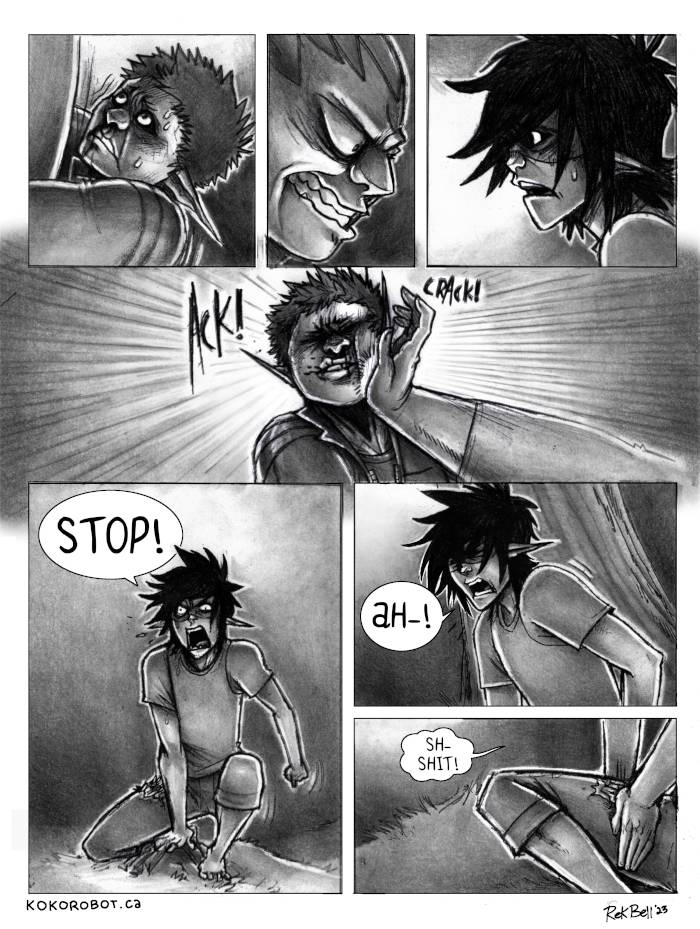
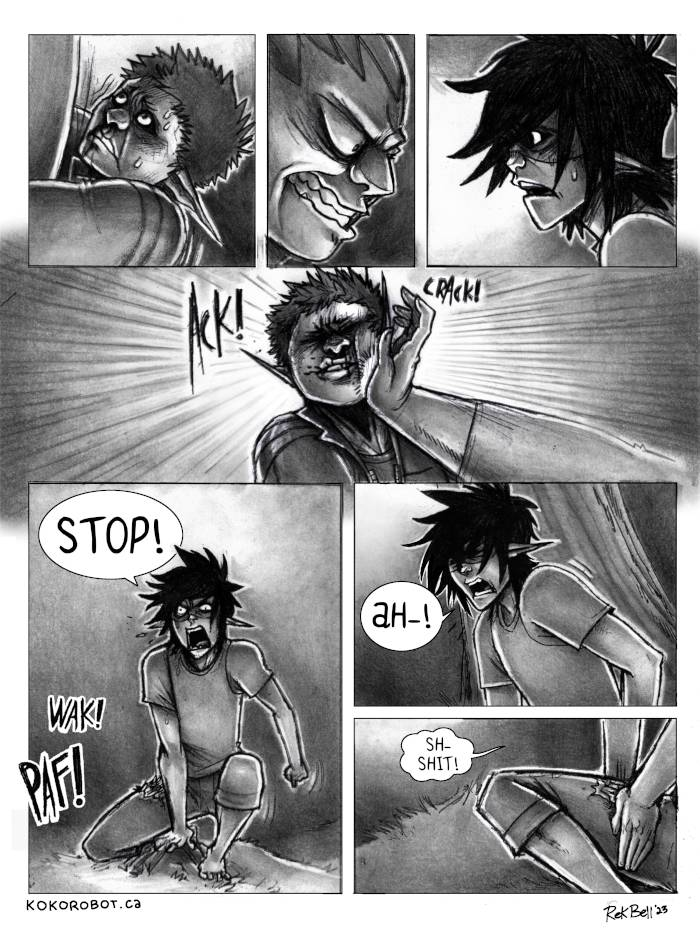
*

Changed region(s): [[0.03, 0.7492, 0.15, 0.9053]]

diff --git a/site/index.html b/site/index.html
@@ -17,5 +17,5 @@
 
 <ul class='col2 capital'><li><a href='2013dec31.html'>2013dec31</a></li><li><a href='2014dec31.html'>2014dec31</a></li><li><a href='2020dec31.html'>2020dec31</a></li><li><a href='2021dec31.html'>2021dec31</a></li><li><a href='2022dec31.html'>2022dec31</a></li><li><a href='2023dec31.html'>2023dec31</a></li><li><a href='about.html'>about</a></li><li><a href='adeka.html'>adeka</a></li><li><a href='adelie.html'>adelie</a></li><li><a href='anuk.html'>anuk</a></li><li><a href='apple_carving.html'>apple carving</a></li><li><a href='ars_goetia.html'>ars goetia</a></li><li><a href='asl.html'>asl</a></li><li><a href='bike.html'>bike</a></li><li><a href='biosonic.html'>biosonic</a></li><li><a href='birds.html'>birds</a></li><li><a href='blog.html'>blog</a></li><li><a href='bookmarks.html'>bookmarks</a></li><li><a href='books.html'>books</a></li><li><a href='books_for_children.html'>books for children</a></li><li><a href='bulle.html'>bulle</a></li><li><a href='busy_doing_nothing.html'>busy doing nothing</a></li><li><a href='busy_water.html'>busy water</a></li><li><a href='caden.html'>caden</a></li><li><a href='caleb.html'>caleb</a></li><li><a href='casey.html'>casey</a></li><li><a href='cat_clock.html'>cat clock</a></li><li><a href='catpot.html'>catpot</a></li><li><a href='cee.html'>cee</a></li><li><a href='chase.html'>chase</a></li><li><a href='circa.html'>circa</a></li><li><a href='collection.html'>collection</a></li><li><a href='commission.html'>commission</a></li><li><a href='conversion.html'>conversion</a></li><li><a href='couple.html'>couple</a></li><li><a href='dae.html'>dae</a></li><li><a href='depressive_realism.html'>depressive realism</a></li><li><a href='devine.html'>devine</a></li><li><a href='disengaging.html'>disengaging</a></li><li><a href='donsol.html'>donsol</a></li><li><a href='drownspire.html'>drownspire</a></li><li><a href='fan_art.html'>fan art</a></li><li><a href='fasciation.html'>fasciation</a></li><li><a href='favorites.html'>favorites</a></li><li><a href='fenix.html'>fenix</a></li><li><a href='ferris.html'>ferris</a></li><li><a href='films_and_series.html'>films and series</a></li><li><a href='finn.html'>finn</a></li><li><a href='five_hole_pamphlet_stitch.html'>five hole pamphlet stitch</a></li><li><a href='fsf_talk.html'>fsf talk</a></li><li><a href='fungi.html'>fungi</a></li><li><a href='games.html'>games</a></li><li><a href='ginger_roots.html'>ginger roots</a></li><li><a href='go_north.html'>go north</a></li><li><a href='grimgrains.html'>grimgrains</a></li><li><a href='hakazi.html'>hakazi</a></li><li><a href='hakum.html'>hakum</a></li><li><a href='hakum_archive.html'>hakum archive</a></li><li><a href='hand_talk.html'>hand talk</a></li><li><a href='hitobito.html'>hitobito</a></li><li><a href='home.html'>home</a></li><li><a href='hundredrabbits.html'>hundredrabbits</a></li><li><a href='ikkard.html'>ikkard</a></li><li><a href='illustration.html'>illustration</a></li><li><a href='image_optimization.html'>image optimization</a></li><li><a href='incredible_death.html'>incredible death</a></li><li><a href='index.html'>index</a></li><li><a href='jak.html'>jak</a></li><li><a href='japan.html'>japan</a></li><li><a href='kaddali.html'>kaddali</a></li><li><a href='kanji_study.html'>kanji study</a></li><li><a href='kayak.html'>kayak</a></li><li><a href='kidd_kosmo.html'>kidd kosmo</a></li><li><a href='kim.html'>kim</a></li><li><a href='knots.html'>knots</a></li><li><a href='leaner_web.html'>leaner web</a></li><li><a href='links.html'>links</a></li><li><a href='liskar.html'>liskar</a></li><li><a href='logos.html'>logos</a></li><li><a href='luna_leap.html'>luna leap</a></li><li><a href='making_a_font.html'>making a font</a></li><li><a href='malisse.html'>malisse</a></li><li><a href='markl.html'>markl</a></li><li><a href='meds.html'>meds</a></li><li><a href='medussas_four.html'>medussas four</a></li><li><a href='merure.html'>merure</a></li><li><a href='merveilles.html'>merveilles</a></li><li><a href='meta.header.html'>meta.header</a></li><li><a href='meta.html'>meta</a></li><li><a href='mika.html'>mika</a></li><li><a href='mindbird.html'>mindbird</a></li><li><a href='misc.html'>misc</a></li><li><a href='musi.html'>musi</a></li><li><a href='nemerald.html'>nemerald</a></li><li><a href='new_physical.html'>new physical</a></li><li><a href='night_terror.html'>night terror</a></li><li><a href='niju.html'>niju</a></li><li><a href='notes.html'>notes</a></li><li><a href='obi.html'>obi</a></li><li><a href='offline_internet.html'>offline internet</a></li><li><a href='old_art.html'>old art</a></li><li><a href='oquonie.html'>oquonie</a></li><li><a href='orion.html'>orion</a></li><li><a href='pandoc.html'>pandoc</a></li><li><a href='pandoc_install.html'>pandoc install</a></li><li><a href='paradise.html'>paradise</a></li><li><a href='pcbc.html'>pcbc</a></li><li><a href='physical.html'>physical</a></li><li><a href='pino.html'>pino</a></li><li><a href='politics.html'>politics</a></li><li><a href='polycat.html'>polycat</a></li><li><a href='press.html'>press</a></li><li><a href='projects.html'>projects</a></li><li><a href='publications.html'>publications</a></li><li><a href='quotes.html'>quotes</a></li><li><a href='radio.html'>radio</a></li><li><a href='rek.html'>rek</a></li><li><a href='resume.html'>resume</a></li><li><a href='reunited.html'>reunited</a></li><li><a href='rope_mats.html'>rope mats</a></li><li><a href='seir.html'>seir</a></li><li><a href='self_defense.html'>self defense</a></li><li><a href='sewing.html'>sewing</a></li><li><a href='shiba_killy.html'>shiba killy</a></li><li><a href='shock.html'>shock</a></li><li><a href='sketchbook.html'>sketchbook</a></li><li><a href='social_psychology.html'>social psychology</a></li><li><a href='solomons_devils.html'>solomons devils</a></li><li><a href='space_panda.html'>space panda</a></li><li><a href='spellbook.html'>spellbook</a></li><li><a href='spines_and_pincers.html'>spines and pincers</a></li><li><a href='sprite.html'>sprite</a></li><li><a href='store.html'>store</a></li><li><a href='stories.html'>stories</a></li><li><a href='straw_surfer.html'>straw surfer</a></li><li><a href='sy.html'>sy</a></li><li><a href='sy_and_kim.html'>sy and kim</a></li><li><a href='tattoos.html'>tattoos</a></li><li><a href='tdc.html'>tdc</a></li><li><a href='the_black_box_theory.html'>the black box theory</a></li><li><a href='the_event.html'>the event</a></li><li><a href='the_tot.html'>the tot</a></li><li><a href='thousand_rooms.html'>thousand rooms</a></li><li><a href='token.html'>token</a></li><li><a href='tools.html'>tools</a></li><li><a href='tracking.html'>tracking</a></li><li><a href='uno.html'>uno</a></li><li><a href='update_log.html'>update log</a></li><li><a href='using_a_scanner_under_linux.html'>using a scanner under linux</a></li><li><a href='uxn.html'>uxn</a></li><li><a href='uxn_asl.html'>uxn asl</a></li><li><a href='vancouver_island_mushrooms.html'>vancouver island mushrooms</a></li><li><a href='vendredi_13.html'>vendredi 13</a></li><li><a href='viktor.html'>viktor</a></li><li><a href='vincent.html'>vincent</a></li><li><a href='warning_art.html'>warning art</a></li><li><a href='whodidwhat.html'>whodidwhat</a></li><li><a href='wiktopher.html'>wiktopher</a></li><li><a href='wunderland_rabbits.html'>wunderland rabbits</a></li><li><a href='yearly_review.html'>yearly review</a></li><li><a href='yegon.html'>yegon</a></li><li><a href='yenifer.html'>yenifer</a></li><li><a href='yufo.html'>yufo</a></li></ul>
 
-</main><footer><hr /><span style='float:right'>Edited on Thu Dec 28 10:10:18 2023
+</main><footer><hr /><span style='float:right'>Edited on Thu Dec 28 18:54:18 2023
  <a href='https://github.com/rekkabell/kokorobot/edit/main/src/inc/index.htm'>[edit]</a><br/></span><b>Rek Bell</b> © 2008-2023 <a href='http://webring.xxiivv.com/#random'>[Webring]</a> <a href='https://merveilles.town/@rek'>[Masto]</a> <a href='politics.html'>[Politics]</a> <a href='index.html'>[Index]</a> <a href='links.html'>[Links]</a> — <a href='https://github.com/rekkabell/kokorobot/blob/main/LICENSE' target='_blank'>BY-NC-SA 4.0</a></footer></body></html>

diff --git a/site/2023dec31.html b/site/2023dec31.html
@@ -22,7 +22,7 @@
 
 <img src="../media/content/photos/2023/wiring_14.jpg" loading="lazy"/>
 
-<p>Nothing like learning a new thing to start the year. In January 2023 Devine & I finished re-doing all of Pino's wiring (AC and DC), the inner workings of our boat were known to us, we crimped every termination, fed every wire and connected every terminal block. The rewiring process had always been scary to me, but now, armed with a new understanding of wiring and electricity, the veil has lifted and gone. A thing is only scary when I haven't begun to look into it, it appears overly complex, but once I start doing the thing I learn about it and the fear subsides. What a feeling.</p>
+<p>Nothing like learning a new thing to start the year. In January 2023 Devine & I finished re-doing all of Pino's wiring (AC and DC), the inner workings of our boat are known to us. We crimped every termination, fed every wire and connected every terminal block. The rewiring process had always been scary to me, but now, armed with a new understanding of wiring and electricity, the veil has lifted and gone. A thing is only scary when I haven't begun to look into it, it appears overly complex, but once I start doing the thing I learn about it and the fear subsides. What a feeling.</p>
 
 <p>After completing the wiring, Dev & I re-released <a href='oquonie.html' class='local'>oquonie</a> for <a href='uxn.html' class='local'>uxn</a>. I re-drew and re-animated all of the sprites.</p>
 
@@ -124,5 +124,5 @@
 
 <p>Go back to <a href='yearlyreview.html'>yearly reviews</a></p>
 
-</main><footer><hr /><span style='float:right'>Edited on Thu Dec 28 10:10:10 2023
+</main><footer><hr /><span style='float:right'>Edited on Thu Dec 28 14:49:38 2023
  <a href='https://github.com/rekkabell/kokorobot/edit/main/src/inc/2023dec31.htm'>[edit]</a><br/></span><b>Rek Bell</b> © 2008-2023 <a href='http://webring.xxiivv.com/#random'>[Webring]</a> <a href='https://merveilles.town/@rek'>[Masto]</a> <a href='politics.html'>[Politics]</a> <a href='index.html'>[Index]</a> <a href='links.html'>[Links]</a> — <a href='https://github.com/rekkabell/kokorobot/blob/main/LICENSE' target='_blank'>BY-NC-SA 4.0</a></footer></body></html>

diff --git a/site/night_terror.html b/site/night_terror.html
@@ -17,7 +17,7 @@
 
 <h3>Night Terror</h3>
 
-<p><b>Warning</b>. <i>Some swearing, blood, firearm violence.</i><br><b>[Status: incomplete, 12/17]</b></p> 
+<p><b>Warning</b>. <i>Some swearing, blood, firearm violence.</i><br><b>[Status: incomplete, 13/17]</b></p> 
 
 <img src='../media/content/stories/hakum/night/p1.jpg' loading='lazy'>
 <img src='../media/content/stories/hakum/night/p2.jpg' loading='lazy'>
@@ -31,8 +31,9 @@
 <img src='../media/content/stories/hakum/night/p10.jpg' loading='lazy'>
 <img src='../media/content/stories/hakum/night/p11.jpg' loading='lazy'>
 <img src='../media/content/stories/hakum/night/p12.jpg' loading='lazy'>
+<img src='../media/content/stories/hakum/night/p13.jpg' loading='lazy'>
 
 <p>Return to <a href='hakum.html' class='local'>hakum</a> project.</p>
 
-</main><footer><hr /><span style='float:right'>Edited on Thu Dec 28 08:40:17 2023
+</main><footer><hr /><span style='float:right'>Edited on Thu Dec 28 18:53:51 2023
  <a href='https://github.com/rekkabell/kokorobot/edit/main/src/inc/night_terror.htm'>[edit]</a><br/></span><b>Rek Bell</b> © 2008-2023 <a href='http://webring.xxiivv.com/#random'>[Webring]</a> <a href='https://merveilles.town/@rek'>[Masto]</a> <a href='politics.html'>[Politics]</a> <a href='index.html'>[Index]</a> <a href='links.html'>[Links]</a> — <a href='https://github.com/rekkabell/kokorobot/blob/main/LICENSE' target='_blank'>BY-NC-SA 4.0</a></footer></body></html>

diff --git a/src/inc/2023dec31.htm b/src/inc/2023dec31.htm
@@ -5,7 +5,7 @@
 
 <img src="../media/content/photos/2023/wiring_14.jpg" loading="lazy"/>
 
-<p>Nothing like learning a new thing to start the year. In January 2023 Devine & I finished re-doing all of Pino's wiring (AC and DC), the inner workings of our boat were known to us, we crimped every termination, fed every wire and connected every terminal block. The rewiring process had always been scary to me, but now, armed with a new understanding of wiring and electricity, the veil has lifted and gone. A thing is only scary when I haven't begun to look into it, it appears overly complex, but once I start doing the thing I learn about it and the fear subsides. What a feeling.</p>
+<p>Nothing like learning a new thing to start the year. In January 2023 Devine & I finished re-doing all of Pino's wiring (AC and DC), the inner workings of our boat are known to us. We crimped every termination, fed every wire and connected every terminal block. The rewiring process had always been scary to me, but now, armed with a new understanding of wiring and electricity, the veil has lifted and gone. A thing is only scary when I haven't begun to look into it, it appears overly complex, but once I start doing the thing I learn about it and the fear subsides. What a feeling.</p>
 
 <p>After completing the wiring, Dev & I re-released {Oquonie} for {Uxn}. I re-drew and re-animated all of the sprites.</p>
 

diff --git a/site/hakum.html b/site/hakum.html
@@ -50,7 +50,7 @@
 
 <p><b>NIGHT TERROR</b></p>
 <a href="night_terror.html"><img src='../media/content/stories/hakum/night/preview.jpg' loading='lazy'>
-<p><a href="night_terror.html">Read the comic</a> [In progress, 12/17 pages]</p>
+<p><a href="night_terror.html">Read the comic</a> [In progress, 13/17 pages]</p>
 
 <h3>Archives</h3>
 
@@ -62,5 +62,5 @@
 
 
 
-</main><footer><hr /><span style='float:right'>Edited on Thu Dec 28 08:40:33 2023
+</main><footer><hr /><span style='float:right'>Edited on Thu Dec 28 18:54:08 2023
  <a href='https://github.com/rekkabell/kokorobot/edit/main/src/inc/hakum.htm'>[edit]</a><br/></span><b>Rek Bell</b> © 2008-2023 <a href='http://webring.xxiivv.com/#random'>[Webring]</a> <a href='https://merveilles.town/@rek'>[Masto]</a> <a href='politics.html'>[Politics]</a> <a href='index.html'>[Index]</a> <a href='links.html'>[Links]</a> — <a href='https://github.com/rekkabell/kokorobot/blob/main/LICENSE' target='_blank'>BY-NC-SA 4.0</a></footer></body></html>

diff --git a/src/inc/night_terror.htm b/src/inc/night_terror.htm
@@ -1,6 +1,6 @@
 <h3>Night Terror</h3>
 
-<p><b>Warning</b>. <i>Some swearing, blood, firearm violence.</i><br><b>[Status: incomplete, 12/17]</b></p> 
+<p><b>Warning</b>. <i>Some swearing, blood, firearm violence.</i><br><b>[Status: incomplete, 13/17]</b></p> 
 
 <img src='../media/content/stories/hakum/night/p1.jpg' loading='lazy'>
 <img src='../media/content/stories/hakum/night/p2.jpg' loading='lazy'>
@@ -14,5 +14,6 @@
 <img src='../media/content/stories/hakum/night/p10.jpg' loading='lazy'>
 <img src='../media/content/stories/hakum/night/p11.jpg' loading='lazy'>
 <img src='../media/content/stories/hakum/night/p12.jpg' loading='lazy'>
+<img src='../media/content/stories/hakum/night/p13.jpg' loading='lazy'>
 
 <p>Return to {Hakum} project.</p>

diff --git a/src/inc/hakum.htm b/src/inc/hakum.htm
@@ -33,7 +33,7 @@
 
 <p><b>NIGHT TERROR</b></p>
 <a href="night_terror.html"><img src='../media/content/stories/hakum/night/preview.jpg' loading='lazy'>
-<p><a href="night_terror.html">Read the comic</a> [In progress, 12/17 pages]</p>
+<p><a href="night_terror.html">Read the comic</a> [In progress, 13/17 pages]</p>
 
 <h3>Archives</h3>
 
